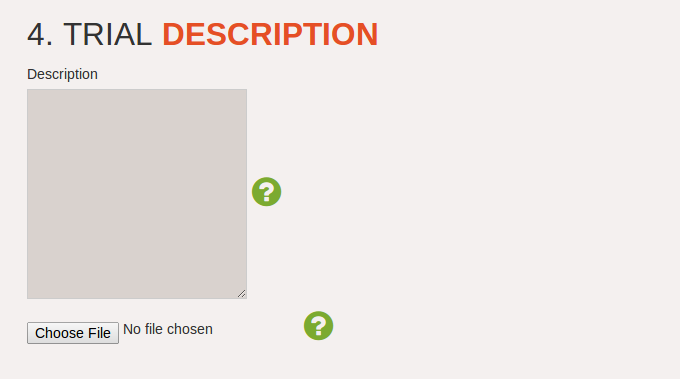
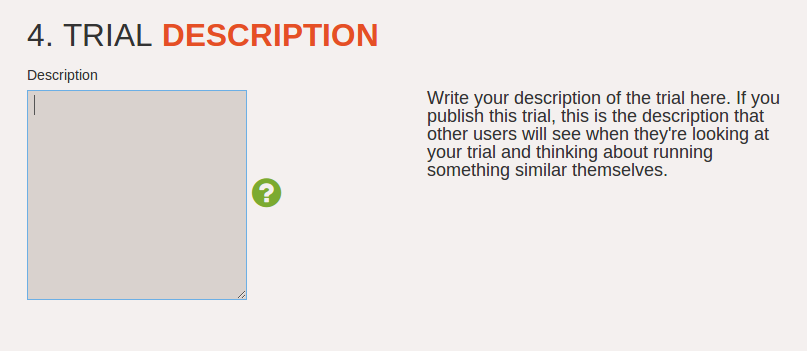
Update description screenshot

diff --git a/rm/templates/trials/tutorial.html b/rm/templates/trials/tutorial.html
@@ -98,15 +98,6 @@
             this is the description that other users will see when they're looking
             at your trial and thinking about running something similar themselves.
           </p>
-          <h3 class="light">
-            Image
-          </h3>
-          <p>
-            You can also upload an image to go along with your trial.
-            This will be displayed on the advert page for your trial, and should
-            be a .png or .jpg file.
-          </p>
-
         </div>
         <div class="span6">
           <img src="{% static 'img/screenz/description.png' %}" class="" alt="" />
